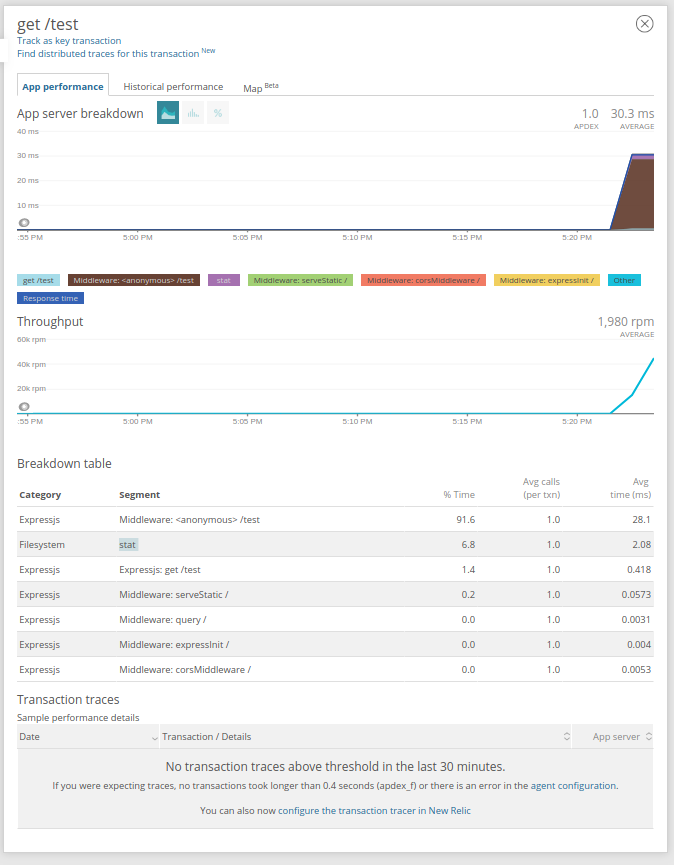
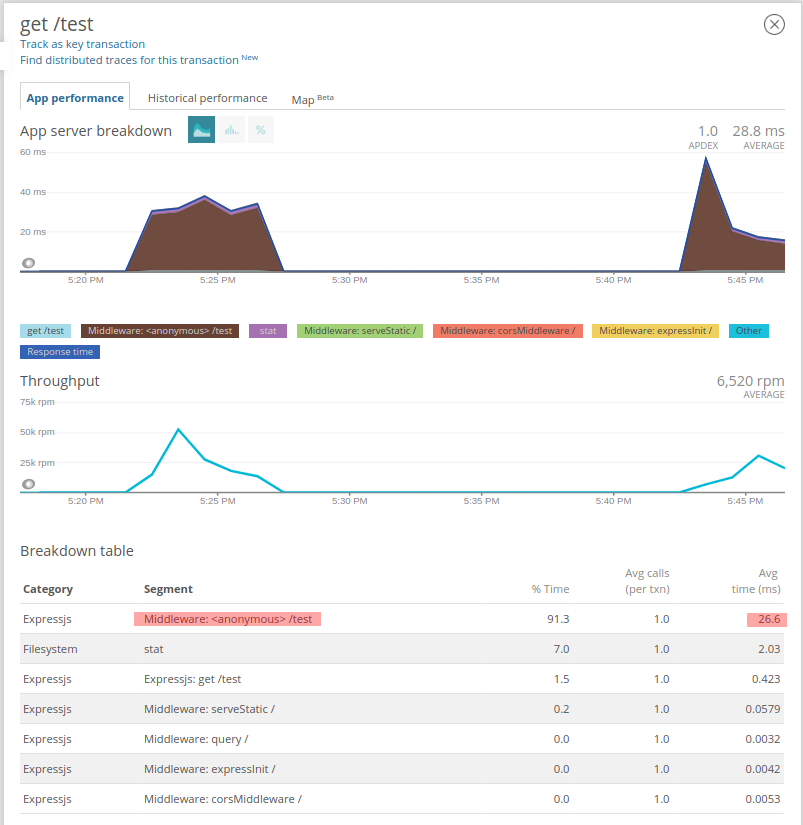
update with new relic

Changed region(s): [[0.0, 0.0, 0.997, 1.0]]

diff --git a/benchmarking.md b/benchmarking.md
@@ -1,0 +1,19 @@
+# Benchmarking Notes
+
+## New Relic Results
+
+![NewRelicScreenshot](./newRelicRandomQuery0.png)
+New Relic Results
+
+![ArtilleryCommands](./artilleryDemandWNewRelic.png)
+Artillery Commands
+
+Express is the current bottleneck.
+
+## Artillery Commands and References
+
+<https://artillery.io/docs/getting-started/>
+
+```sh
+artillery quick --count 100 -n 75 http://localhost:3001/test/
+```
